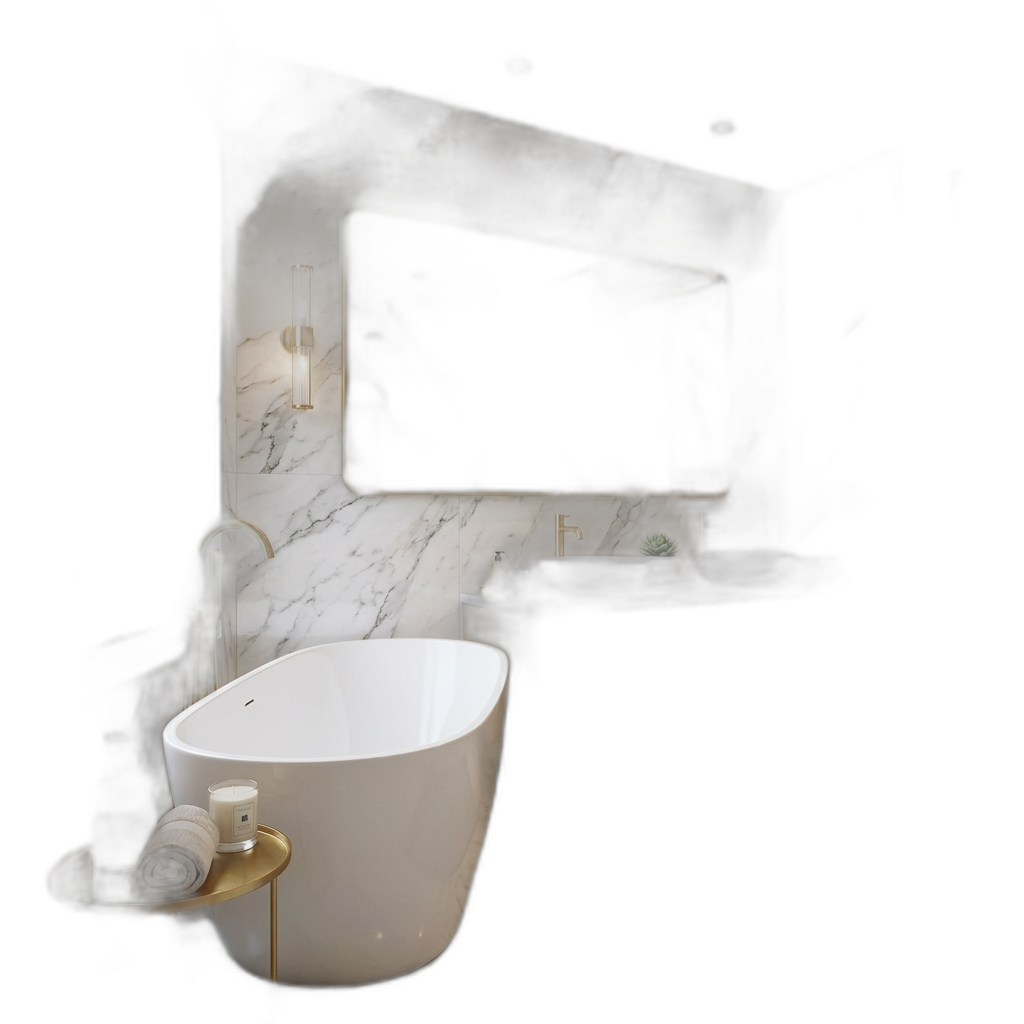
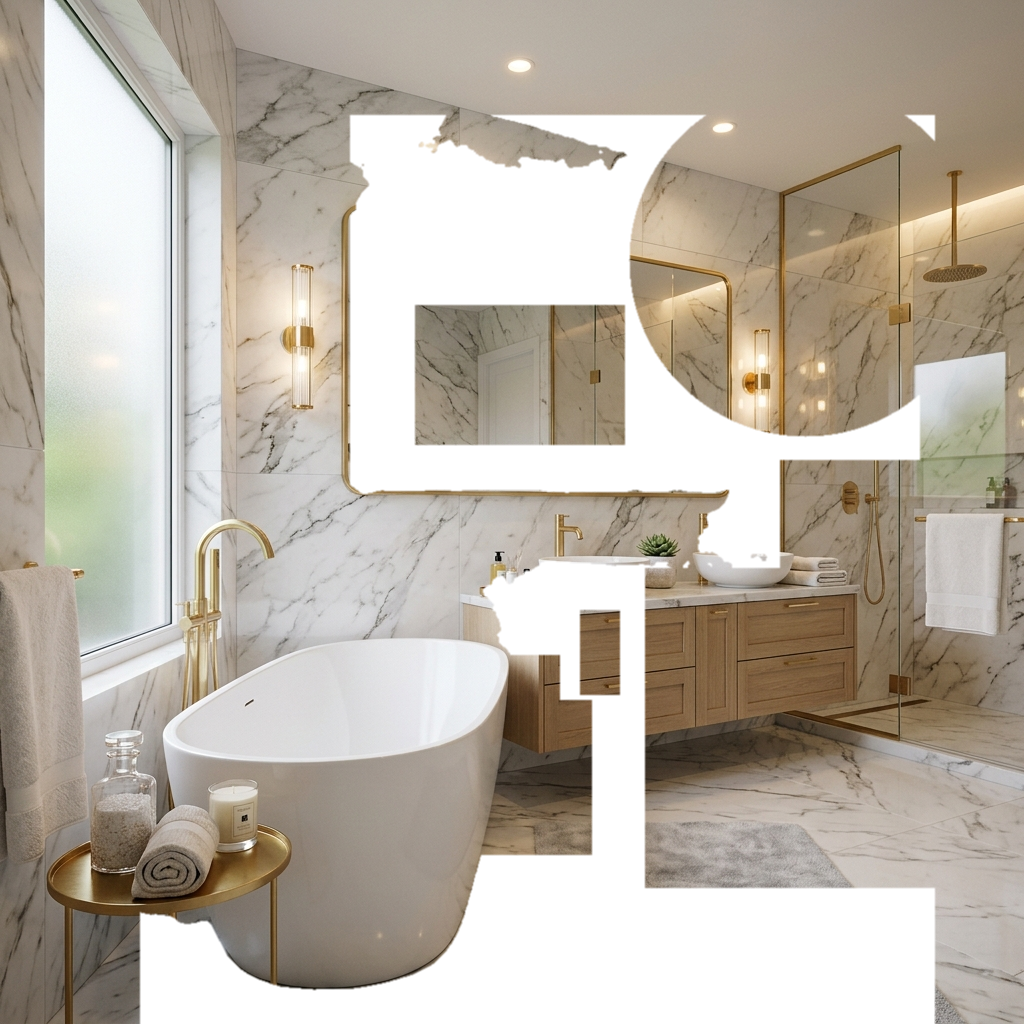
fix(segmentation): strictly exclude vanity unit, toilet, and shower cabin from tile application

diff --git a/public/tile-engine/script.js b/public/tile-engine/script.js
@@ -98,13 +98,14 @@
             isBathroom: false
         },
         'luxury_bathroom': {
-            floorY: 0.68,
-            ceilingY: 0.15,
+            floorY: 0.835,
+            ceilingY: 0.115,
             horizonY: 0.48,
             vanishingX: 0.50,
             vanishingY: 0.48,
             fgUrl: '/hero/luxury_bathroom_fg.png',
-            isBathroom: true
+            isBathroom: true,
+            layout: 'luxury'
         },
         'easy_kitchen': {
             floorY: 0.57,
@@ -131,28 +132,51 @@
             vanishingX: 0.50,
             vanishingY: 0.48,
             fgUrl: '/hero/easy_bathroom_fg.png',
-            isBathroom: true
-        }
-    };
-
-    function getRoomConfig(url, w, h) {
-        if (url) {
-            const cleanUrl = url.toLowerCase();
-            for (const [key, conf] of Object.entries(ROOM_PRESETS)) {
-                if (cleanUrl.includes(key)) {
-                    return conf;
-                }
-            }
-        }
-        const isPortrait = h > w;
-        return {
-            floorY: isPortrait ? 0.70 : 0.62,
-            ceilingY: 0.16,
+            isBathroom: true,
+            layout: 'easy'
+        },
+        'antrasit_gri_banyo': {
+            floorY: 0.856,
+            ceilingY: 0.176,
             horizonY: 0.48,
             vanishingX: 0.50,
             vanishingY: 0.48,
             fgUrl: null,
-            isBathroom: Boolean(url && url.toLowerCase().includes('bathroom'))
+            isBathroom: true,
+            layout: 'antrasit'
+        }
+    };
+
+    function getRoomConfig(url, w, h, name = '') {
+        const textToSearch = `${url || ''} ${name || ''}`.toLowerCase();
+        for (const [key, conf] of Object.entries(ROOM_PRESETS)) {
+            if (textToSearch.includes(key) || textToSearch.includes(key.replace(/_/g, ' '))) {
+                return conf;
+            }
+        }
+        const isPortrait = h > w;
+        const isBathroom = Boolean(
+            textToSearch.includes('bathroom') ||
+            textToSearch.includes('banyo') ||
+            textToSearch.includes('klozet') ||
+            textToSearch.includes('toilet') ||
+            textToSearch.includes('wc') ||
+            textToSearch.includes('shower') ||
+            textToSearch.includes('dus') ||
+            textToSearch.includes('lavabo')
+        );
+
+        const isAntrasitLayout = isBathroom && (isPortrait || (w > 0 && h > 0 && Math.abs((w / h) - (475 / 625)) < 0.18));
+
+        return {
+            floorY: isAntrasitLayout ? 0.856 : (isBathroom ? (isPortrait ? 0.80 : 0.76) : (isPortrait ? 0.70 : 0.62)),
+            ceilingY: isBathroom ? 0.16 : 0.16,
+            horizonY: 0.48,
+            vanishingX: 0.50,
+            vanishingY: 0.48,
+            fgUrl: null,
+            isBathroom: isBathroom,
+            layout: isAntrasitLayout ? 'antrasit' : (isBathroom ? 'general_bathroom' : 'general')
         };
     }
 
@@ -348,7 +372,7 @@
             roomImageEl = await loadImage(url);
             roomDims.textContent = `${roomImageEl.naturalWidth}×${roomImageEl.naturalHeight}px`;
 
-            const conf = getRoomConfig(url, roomImageEl.naturalWidth, roomImageEl.naturalHeight);
+            const conf = getRoomConfig(url, roomImageEl.naturalWidth, roomImageEl.naturalHeight, name);
             if (conf.fgUrl) {
                 try {
                     roomFgImageEl = await loadImage(conf.fgUrl);
@@ -402,9 +426,10 @@
             fgData = fgCtx.getImageData(0, 0, w, h).data;
         }
 
-        const conf = getRoomConfig(activeRoomUrl, w, h);
+        const conf = getRoomConfig(activeRoomUrl, w, h, activeRoomName);
         const floorY = Math.round(h * conf.floorY);
         const ceilingY = Math.round(h * conf.ceilingY);
+        const isPortrait = h > w;
 
         // Independent Mask Buffers (Zero Overlap Disjoint Partition)
         const activeImgData  = maskCtx.createImageData(w, h);
@@ -430,6 +455,11 @@
                 const g = rgbData[idx + 1];
                 const b = rgbData[idx + 2];
 
+                const lum = r * 0.299 + g * 0.587 + b * 0.114;
+                const maxC = Math.max(r, g, b);
+                const minC = Math.min(r, g, b);
+                const chroma = maxC - minC;
+
                 let isProtected = false;
 
                 // 1. Precise foreground layer check (covers sofa, table, chairs, shower glass, armatures, mirror, vanity)
@@ -445,27 +475,94 @@
                     isProtected = true;
                 }
 
-                // 4. Fallback bathroom geometry when no separate fg file exists
-                if (conf.isBathroom && !roomFgImageEl) {
-                    // Right Shower Glass, Frame & Shower Fixtures (armatürler)
-                    if (x > Math.round(w * 0.58) && y < floorY) {
-                        isProtected = true;
-                    }
-                    // Mirror (elliptical boundary)
-                    else if (Math.pow((x - w * 0.50) / (w * 0.125), 2) + Math.pow((y - h * 0.36) / (h * 0.165), 2) <= 1.0) {
-                        isProtected = true;
-                    }
-                    // Vessel Sink & Faucet
-                    else if (x >= Math.round(w * 0.43) && x <= Math.round(w * 0.57) && y >= Math.round(h * 0.49) && y <= Math.round(h * 0.59)) {
-                        isProtected = true;
-                    }
-                    // Vanity Countertop & Drawers
-                    else if (x >= Math.round(w * 0.36) && x <= Math.round(w * 0.64) && y >= Math.round(h * 0.58) && y <= Math.round(h * 0.73)) {
-                        isProtected = true;
-                    }
-                    // Left wood accent cabinet / towel
-                    else if (x < Math.round(w * 0.28) && y < floorY) {
-                        isProtected = true;
+                // 4. White porcelain ceramic fixture protection (toilet bowls, vessel sinks, freestanding tubs)
+                if (conf.isBathroom && lum > 185 && chroma < 28 && y >= ceilingY && y <= Math.round(h * 0.90)) {
+                    isProtected = true;
+                }
+
+                // 5. Floor rugs, bath mats and deep void protection
+                if (isFloorZone && ((chroma > 45 && lum < 75) || (lum < 18))) {
+                    isProtected = true;
+                }
+
+                // 6. Architectural and fixture geometry protection for bathrooms
+                if (conf.isBathroom) {
+                    if (conf.layout === 'luxury') {
+                        // Shower cabin (duşakabin): walk-in glass, rain shower, niche, hose & drain
+                        if (x < Math.round(w * 0.35) && y < floorY) {
+                            isProtected = true;
+                        }
+                        // Wall niche above toilet with decorative items & plants
+                        else if (x >= Math.round(w * 0.40) && x <= Math.round(w * 0.63) && y >= Math.round(h * 0.29) && y <= Math.round(h * 0.45)) {
+                            isProtected = true;
+                        }
+                        // Flush actuator plate
+                        else if (x >= Math.round(w * 0.47) && x <= Math.round(w * 0.55) && y >= Math.round(h * 0.48) && y <= Math.round(h * 0.58)) {
+                            isProtected = true;
+                        }
+                        // Toilet bowl (klozet), brush & paper roll
+                        else if (x >= Math.round(w * 0.44) && x <= Math.round(w * 0.62) && y >= Math.round(h * 0.60) && y <= Math.round(h * 0.86)) {
+                            isProtected = true;
+                        }
+                        // Circular illuminated mirror (ayna)
+                        else if (Math.pow((x - w * 0.786) / (w * 0.175), 2) + Math.pow((y - h * 0.254) / (h * 0.175), 2) <= 1.0) {
+                            isProtected = true;
+                        }
+                        // Vanity cabinet (banyo dolabı), countertop, basin, faucet & toiletries
+                        else if (x >= Math.round(w * 0.62) && x <= Math.round(w * 0.98) && y >= Math.round(h * 0.45) && y <= Math.round(h * 0.88)) {
+                            isProtected = true;
+                        }
+                        // Wood slats & towel
+                        else if (x >= Math.round(w * 0.92)) {
+                            isProtected = true;
+                        }
+                        // Window blinds on left
+                        else if (x <= Math.round(w * 0.12)) {
+                            isProtected = true;
+                        }
+                    } else if (conf.layout === 'antrasit' || isPortrait) {
+                        // Compact / portrait bathroom (e.g. Antrasit banyo)
+                        // Toilet bowl (klozet)
+                        if (x >= Math.round(w * 0.158) && x <= Math.round(w * 0.36) && y >= Math.round(h * 0.68) && y <= Math.round(h * 0.86)) {
+                            isProtected = true;
+                        }
+                        // Flush plate
+                        else if (x >= Math.round(w * 0.20) && x <= Math.round(w * 0.34) && y >= Math.round(h * 0.52) && y <= Math.round(h * 0.61)) {
+                            isProtected = true;
+                        }
+                        // Vanity cabinet, countertop & vessel sink (banyo dolabı)
+                        else if (x >= Math.round(w * 0.38) && x <= Math.round(w * 0.95) && y >= Math.round(h * 0.64) && y <= Math.round(h * 0.85)) {
+                            isProtected = true;
+                        }
+                        // Upper wall cabinet & backlit mirror
+                        else if (x >= Math.round(w * 0.38) && x <= Math.round(w * 0.95) && y >= Math.round(h * 0.17) && y <= Math.round(h * 0.64)) {
+                            isProtected = true;
+                        }
+                        // Left towel radiator
+                        else if (x < Math.round(w * 0.15) && y >= Math.round(h * 0.25) && y <= Math.round(h * 0.85)) {
+                            isProtected = true;
+                        }
+                    } else if (conf.layout === 'easy' || (!roomFgImageEl && conf.isBathroom)) {
+                        // Right shower cabin & glass partition (duşakabin)
+                        if (x > Math.round(w * 0.68) && y < floorY) {
+                            isProtected = true;
+                        }
+                        // Mirror above vanity
+                        else if (x >= Math.round(w * 0.38) && x <= Math.round(w * 0.62) && y >= Math.round(h * 0.22) && y <= Math.round(h * 0.50)) {
+                            isProtected = true;
+                        }
+                        // Vessel sink & faucet
+                        else if (x >= Math.round(w * 0.42) && x <= Math.round(w * 0.58) && y >= Math.round(h * 0.48) && y <= Math.round(h * 0.58)) {
+                            isProtected = true;
+                        }
+                        // Vanity countertop & drawers (banyo dolabı)
+                        else if (x >= Math.round(w * 0.30) && x <= Math.round(w * 0.70) && y >= Math.round(h * 0.54) && y <= Math.round(h * 0.73)) {
+                            isProtected = true;
+                        }
+                        // Left tall cabinet / towel
+                        else if (x < Math.round(w * 0.15) && y < floorY) {
+                            isProtected = true;
+                        }
                     }
                 }
 

diff --git a/tests/visualizer_perspective_qa.test.js b/tests/visualizer_perspective_qa.test.js
@@ -548,6 +548,70 @@ describe('AI Visualizer - Perspective Engine & Semantic Segmentation QA', () => 
     assert.equal(historyStack.redo.length, 1);
   });
 
+  test('Luxury Bathroom Fixture Exclusion - Vanity, Toilet, and Shower Enclosure Must Be Strictly Protected', () => {
+    const w = 1024;
+    const h = 1024;
+    const ceilingY = Math.round(h * 0.115);
+    const floorY = Math.round(h * 0.835);
+
+    const isLuxuryProtected = (x, y) => {
+      if (y < ceilingY) return true; // Ceiling
+      if (x < Math.round(w * 0.35) && y < floorY) return true; // Duşakabin (shower cabin & glass partition)
+      if (x >= Math.round(w * 0.40) && x <= Math.round(w * 0.63) && y >= Math.round(h * 0.29) && y <= Math.round(h * 0.45)) return true; // Niche
+      if (x >= Math.round(w * 0.47) && x <= Math.round(w * 0.55) && y >= Math.round(h * 0.48) && y <= Math.round(h * 0.58)) return true; // Flush plate
+      if (x >= Math.round(w * 0.44) && x <= Math.round(w * 0.62) && y >= Math.round(h * 0.60) && y <= Math.round(h * 0.86)) return true; // Toilet bowl
+      if (Math.pow((x - w * 0.786) / (w * 0.175), 2) + Math.pow((y - h * 0.254) / (h * 0.175), 2) <= 1.0) return true; // Mirror
+      if (x >= Math.round(w * 0.62) && x <= Math.round(w * 0.98) && y >= Math.round(h * 0.45) && y <= Math.round(h * 0.88)) return true; // Vanity unit (banyo dolabı)
+      if (x >= Math.round(w * 0.92)) return true; // Wood slats & towel
+      if (x <= Math.round(w * 0.12)) return true; // Window
+      return false;
+    };
+
+    // 1. Vanity Unit (Banyo Dolabı): drawers & basin
+    const vanityDrawerX = Math.round(w * 0.75);
+    const vanityDrawerY = Math.round(h * 0.72);
+    assert.equal(isLuxuryProtected(vanityDrawerX, vanityDrawerY), true, 'Banyo dolabı drawers must be protected from tiles');
+
+    const vanityBasinX = Math.round(w * 0.75);
+    const vanityBasinY = Math.round(h * 0.58);
+    assert.equal(isLuxuryProtected(vanityBasinX, vanityBasinY), true, 'Banyo dolabı basin/countertop must be protected');
+
+    // 2. Toilet (Klozet) & flush actuator
+    const toiletBowlX = Math.round(w * 0.50);
+    const toiletBowlY = Math.round(h * 0.75);
+    assert.equal(isLuxuryProtected(toiletBowlX, toiletBowlY), true, 'Klozet bowl must be protected from tiles');
+
+    const flushPlateX = Math.round(w * 0.51);
+    const flushPlateY = Math.round(h * 0.52);
+    assert.equal(isLuxuryProtected(flushPlateX, flushPlateY), true, 'Flush plate must be protected');
+
+    // 3. Shower Cabin (Duşakabin) & Glass Partition
+    const showerHeadX = Math.round(w * 0.25);
+    const showerHeadY = Math.round(h * 0.14);
+    assert.equal(isLuxuryProtected(showerHeadX, showerHeadY), true, 'Duşakabin showerhead must be protected');
+
+    const showerGlassX = Math.round(w * 0.30);
+    const showerGlassY = Math.round(h * 0.50);
+    assert.equal(isLuxuryProtected(showerGlassX, showerGlassY), true, 'Duşakabin glass partition must be protected');
+
+    // 4. Circular Mirror (Ayna)
+    const mirrorCenterX = Math.round(w * 0.786);
+    const mirrorCenterY = Math.round(h * 0.254);
+    assert.equal(isLuxuryProtected(mirrorCenterX, mirrorCenterY), true, 'Circular backlit mirror must be protected');
+
+    // 5. Tileable Wall Surface around fixtures (between shower and toilet, or above vanity)
+    const wallPixelX = Math.round(w * 0.38);
+    const wallPixelY = Math.round(h * 0.25);
+    assert.equal(isLuxuryProtected(wallPixelX, wallPixelY), false, 'Clear wall surface behind/around fixtures must remain tileable');
+    assert.ok(wallPixelY >= ceilingY && wallPixelY < floorY, 'Wall pixel must fall within wall zone');
+
+    // 6. Tileable Floor Surface in front of toilet/shower
+    const floorPixelX = Math.round(w * 0.50);
+    const floorPixelY = Math.round(h * 0.92);
+    assert.equal(isLuxuryProtected(floorPixelX, floorPixelY), false, 'Open floor surface must remain tileable');
+    assert.ok(floorPixelY >= floorY, 'Floor pixel must fall within floor zone');
+  });
+
 });
 
 

diff --git a/public/floor-tile-visualizer/script.js b/public/floor-tile-visualizer/script.js
@@ -491,16 +491,19 @@ async function generateIntelligentMask(w, h, surface, presetUrl, roomImg = null)
     }
     const rgbData = tempCtx.getImageData(0, 0, w, h).data;
 
-    const isEasyBathroom = (presetUrl && presetUrl.includes("bathroom")) || (activePresetUrl && activePresetUrl.includes("bathroom")) || (w === 1024 && h === 1024);
+    const isLuxuryBathroom = (presetUrl && presetUrl.includes("luxury_bathroom")) || (activePresetUrl && activePresetUrl.includes("luxury_bathroom"));
+    const isEasyBathroom = !isLuxuryBathroom && ((presetUrl && presetUrl.includes("bathroom")) || (activePresetUrl && activePresetUrl.includes("bathroom")) || (w === 1024 && h === 1024));
     const isPortraitBathroomQA = (w === 475 && h === 625);
     const isPortrait = (h > w);
 
     // 1. Tavan ve Spotlar (Ceiling): y in [0, ceilingY]
-    const ceilingY = Math.round(h * 0.176);
+    const ceilingY = Math.round(h * (isLuxuryBathroom ? 0.115 : 0.176));
 
     // 2. Floor Horizon Line:
     let floorY;
-    if (isEasyBathroom) {
+    if (isLuxuryBathroom) {
+        floorY = Math.round(h * 0.835);
+    } else if (isEasyBathroom) {
         floorY = Math.round(h * 0.72);
     } else if (isPortraitBathroomQA) {
         floorY = Math.round(h * 0.856);
@@ -563,6 +566,25 @@ async function generateIntelligentMask(w, h, surface, presetUrl, roomImg = null)
                 isProtected = true; // Tavan %100 Korumalı
             } else if (isPlant || isBathMat) {
                 isProtected = true; // Bitki ve paspas %100 Korumalı
+            } else if (isLuxuryBathroom) {
+                // luxury_bathroom.png (Klozet, Banyo Dolabı, Duşakabin, Ayna)
+                if (x < Math.round(w * 0.35) && y < floorY) {
+                    isProtected = true; // Duşakabin
+                } else if (x >= Math.round(w * 0.40) && x <= Math.round(w * 0.63) && y >= Math.round(h * 0.29) && y <= Math.round(h * 0.45)) {
+                    isProtected = true; // Duvar Nişi
+                } else if (x >= Math.round(w * 0.47) && x <= Math.round(w * 0.55) && y >= Math.round(h * 0.48) && y <= Math.round(h * 0.58)) {
+                    isProtected = true; // Gömme Rezervuar Butonu
+                } else if (x >= Math.round(w * 0.44) && x <= Math.round(w * 0.62) && y >= Math.round(h * 0.60) && y <= Math.round(h * 0.86)) {
+                    isProtected = true; // Klozet ve fırça
+                } else if (Math.pow((x - w * 0.786) / (w * 0.175), 2) + Math.pow((y - h * 0.254) / (h * 0.175), 2) <= 1.0) {
+                    isProtected = true; // Yuvarlak Ayna
+                } else if (x >= Math.round(w * 0.62) && x <= Math.round(w * 0.98) && y >= Math.round(h * 0.45) && y <= Math.round(h * 0.88)) {
+                    isProtected = true; // Banyo Dolabı ve Lavabo
+                } else if (x >= Math.round(w * 0.92)) {
+                    isProtected = true; // Ahşap panel
+                } else if (x <= Math.round(w * 0.12)) {
+                    isProtected = true; // Pencere jaluzi
+                }
             } else if (isEasyBathroom) {
                 // easy_bathroom.jpg (1024x1024 Kare Banyo Odası)
                 // Sol ahşap duvar ve asılı beyaz havlu
